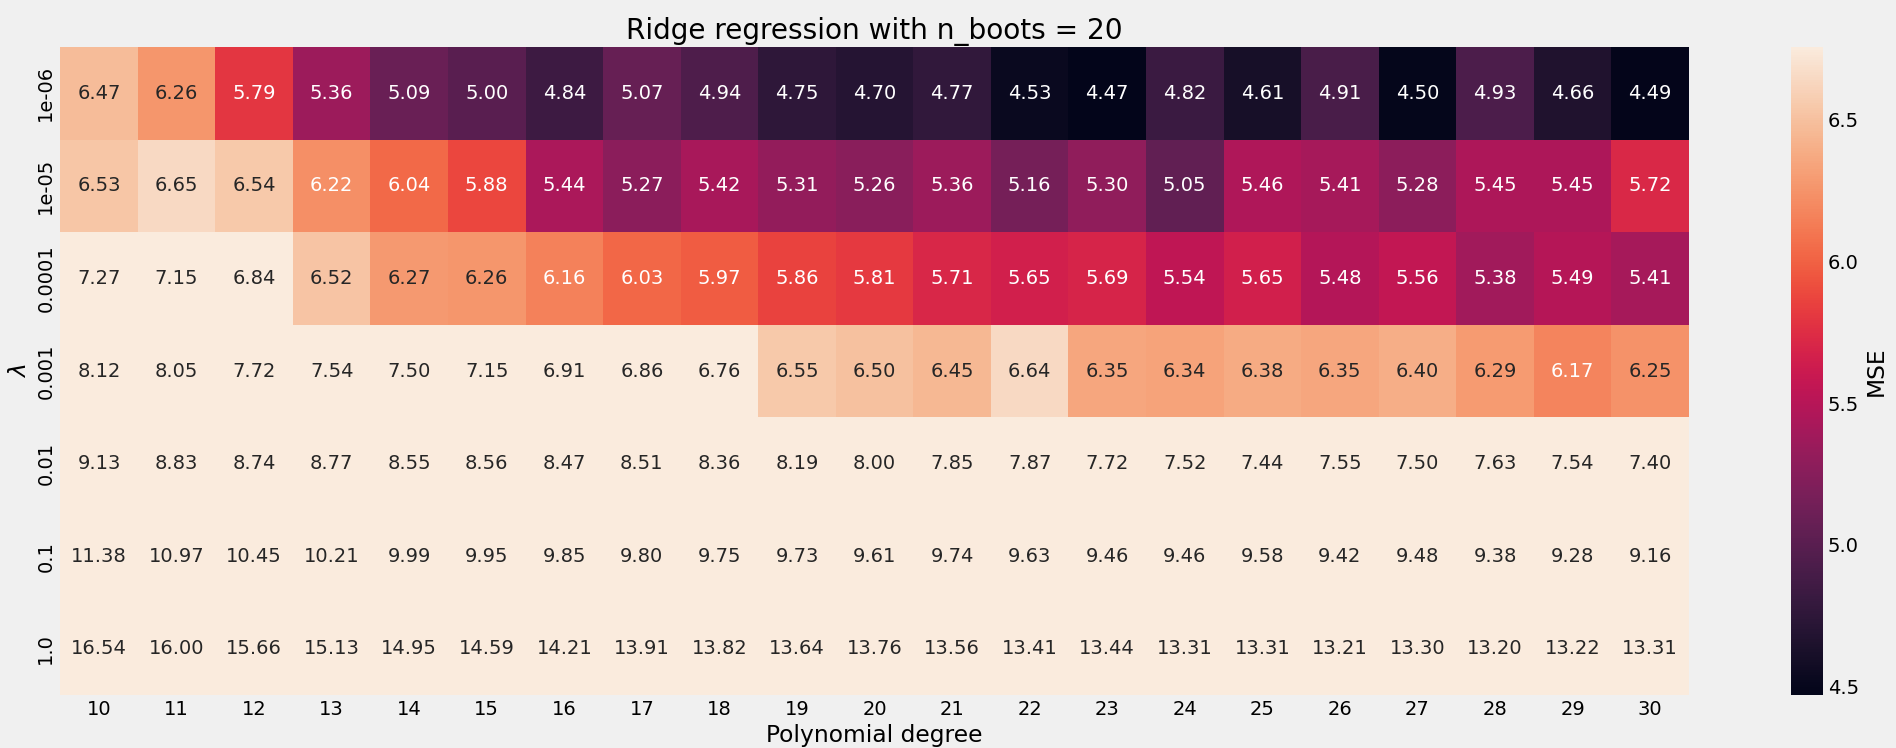
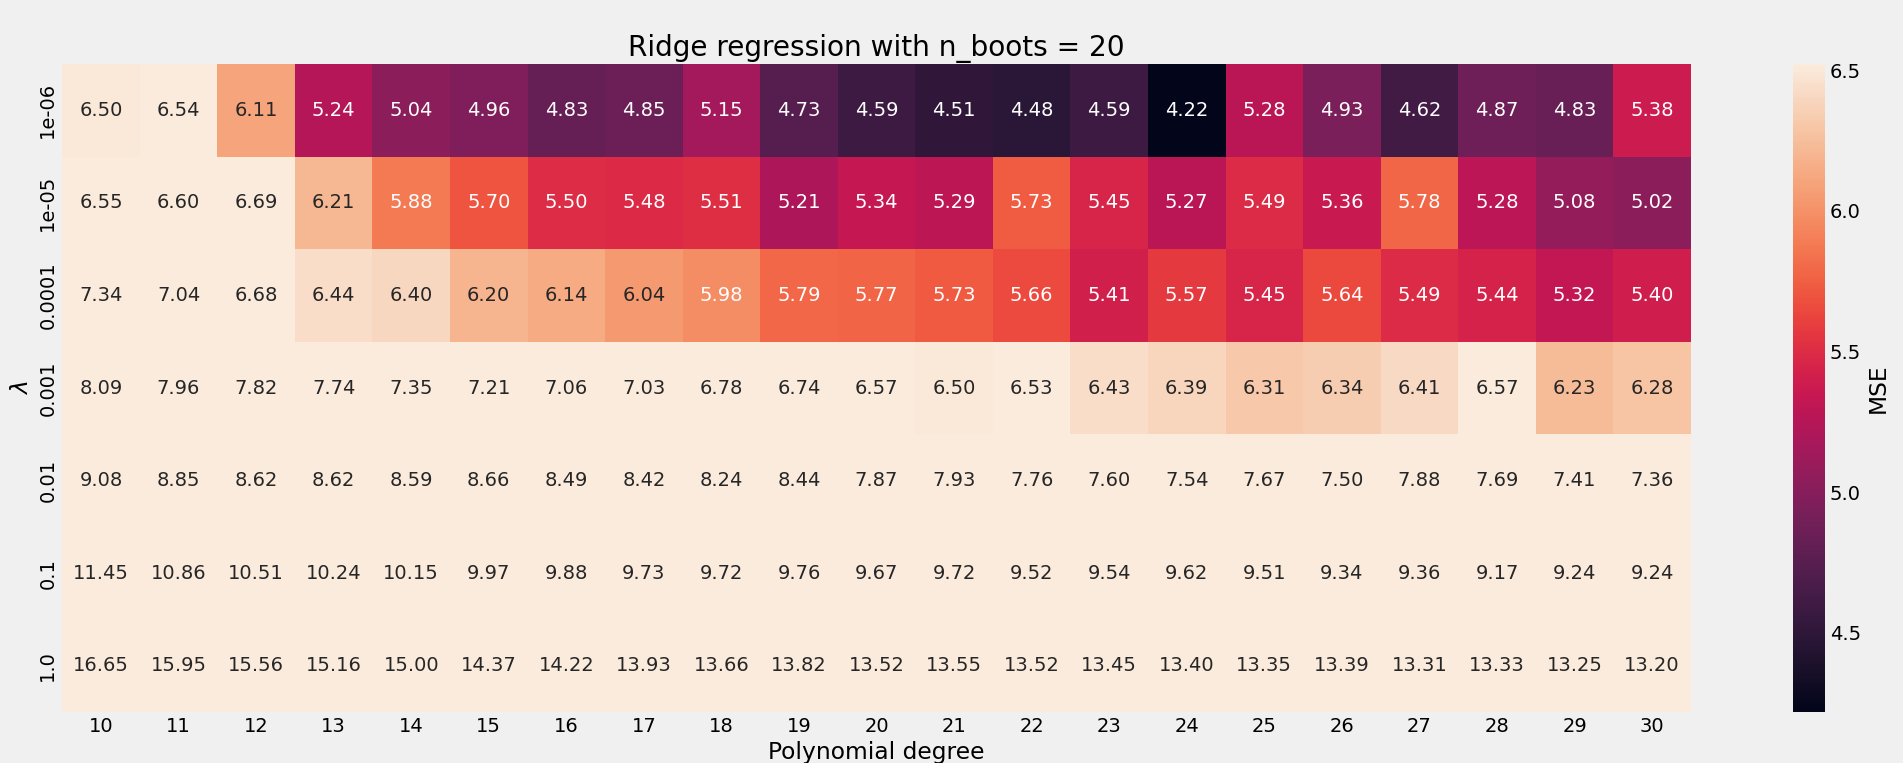
Updated figures.

diff --git a/results.tex b/results.tex
@@ -192,7 +192,7 @@ the hyper parameter, $\lambda = 0.001$
 
 \begin{figure}[H]
     \centering
-    \includegraphics[width=\textwidth]{Figures/g_ridge_hetmap_kfold_n_splits_10.png}
+    \includegraphics[width=\textwidth]{Figures/g_ridge_heatmap_kfold_n_10.png}
     \caption{Heatmap of MSE scores obtained with Ridge regression and K-fold
     re-sampling, with 10 splits.}  
     \label{fig:g_ridge_kfold_heatmap}  
@@ -200,7 +200,7 @@ the hyper parameter, $\lambda = 0.001$
 
 \begin{figure}[H]
     \centering
-    \includegraphics[width=\textwidth]{Figures/g_lasso_heatmap_n_boots_20.png}
+    \includegraphics[width=\textwidth]{Figures/g_lasso_heatmap_boost_n_20.png}
     \caption{Heatmap of MSE scores obtained with lasso regression and Bootstrap
     re-sampling, with 20 re-samples.}  
     \label{fig:g_lasso_boots_heatmap}  
@@ -208,7 +208,7 @@ the hyper parameter, $\lambda = 0.001$
 
 \begin{figure}[H]
     \centering
-    \includegraphics[width=\textwidth]{Figures/g_lasso_kfold_n_splits_10.png}
+    \includegraphics[width=\textwidth]{Figures/g_lasso_heatmap_kfold_n_10.png}
     \caption{Heatmap of MSE scores obtained with lasso regression and K-fold
     re-sampling, with 10 splits.}  
     \label{fig:g_lasso_boots_heatmap}  
@@ -228,13 +228,13 @@ the hyper parameter, $\lambda = 0.001$
         \hline
         Polynomial degree & $\lambda$ & Regression method & Re-sampling method & MSE \\
         \hline
-                          &   &  OLS & Bootstrap (n=20) & \\
+                          18 &   &  OLS & Bootstrap (n=20) & 3.12\\
         \hline
 
-                          22 & $10^{-6}$ &   Ridge & Bootstrap (n=20) & 4.53\\
+                          24 & $10^{-6}$ &   Ridge & Bootstrap (n=20) & 4.22\\
         \hline
 
-                          30 &  $10^{-6}$ & Lasso&  Bootstrap (n=20) & 8.77\\
+                          30 &  $10^{-6}$ & Lasso&  Bootstrap (n=20) & 8.88\\
         \hline
 
                           & & OLS & K-fold (n=10)& \\
@@ -243,16 +243,18 @@ the hyper parameter, $\lambda = 0.001$
                           19 &  0.01 & Ridge & K-fold (n=10)& 19.6\\
         \hline
 
-                          19 & 0.01 &  Lasso & K-fold (n=10)& 19.79\\
+                          19 & 0.01 &  Lasso & K-fold (n=10)& 19.73\\
         \hline
-        
-                    
-         
     \end{tabular} 
 \end{table}
 
 
 
+
+\begin{figure}[H]
+    \centering
+    \includegraphics[width=0.8\textwidth]{Figures/g_ols_ridge_lasso_boots_n_20.png}
+\end{figure}
 
 
 
